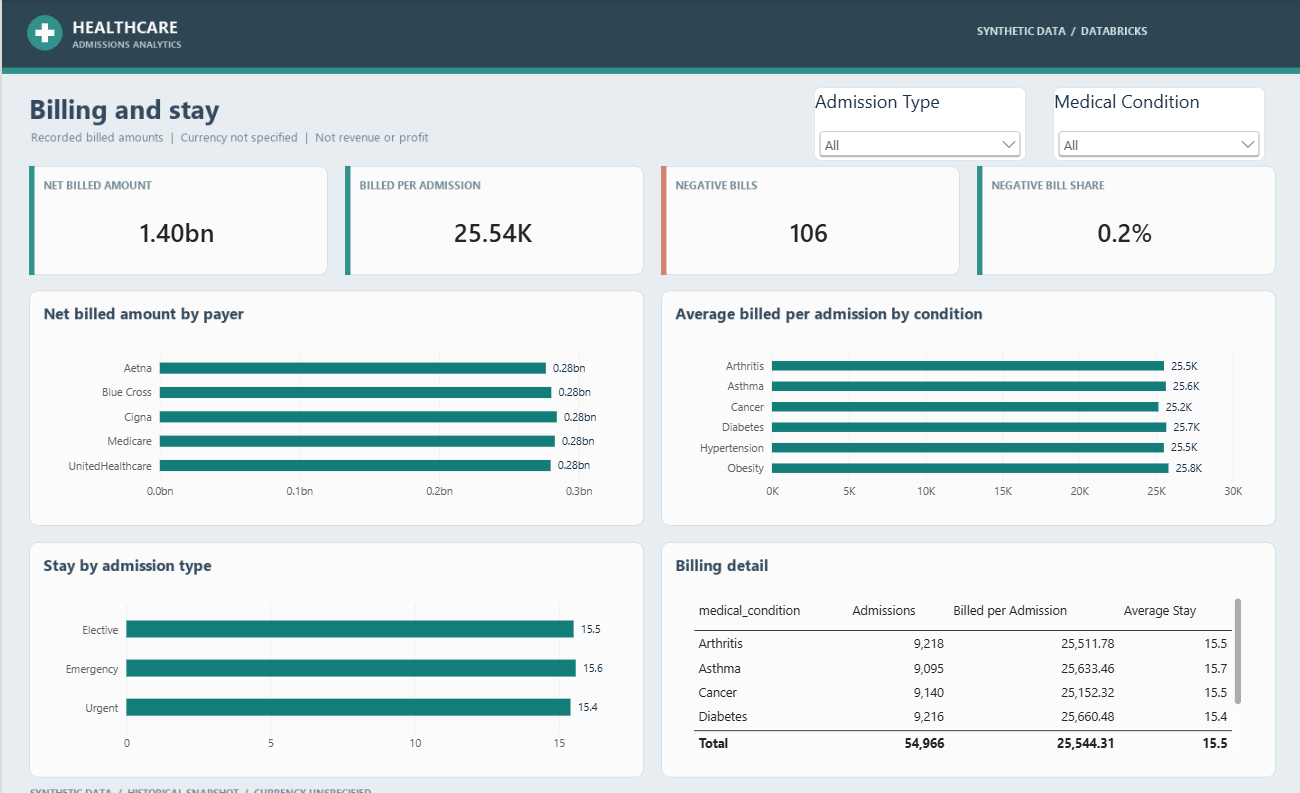
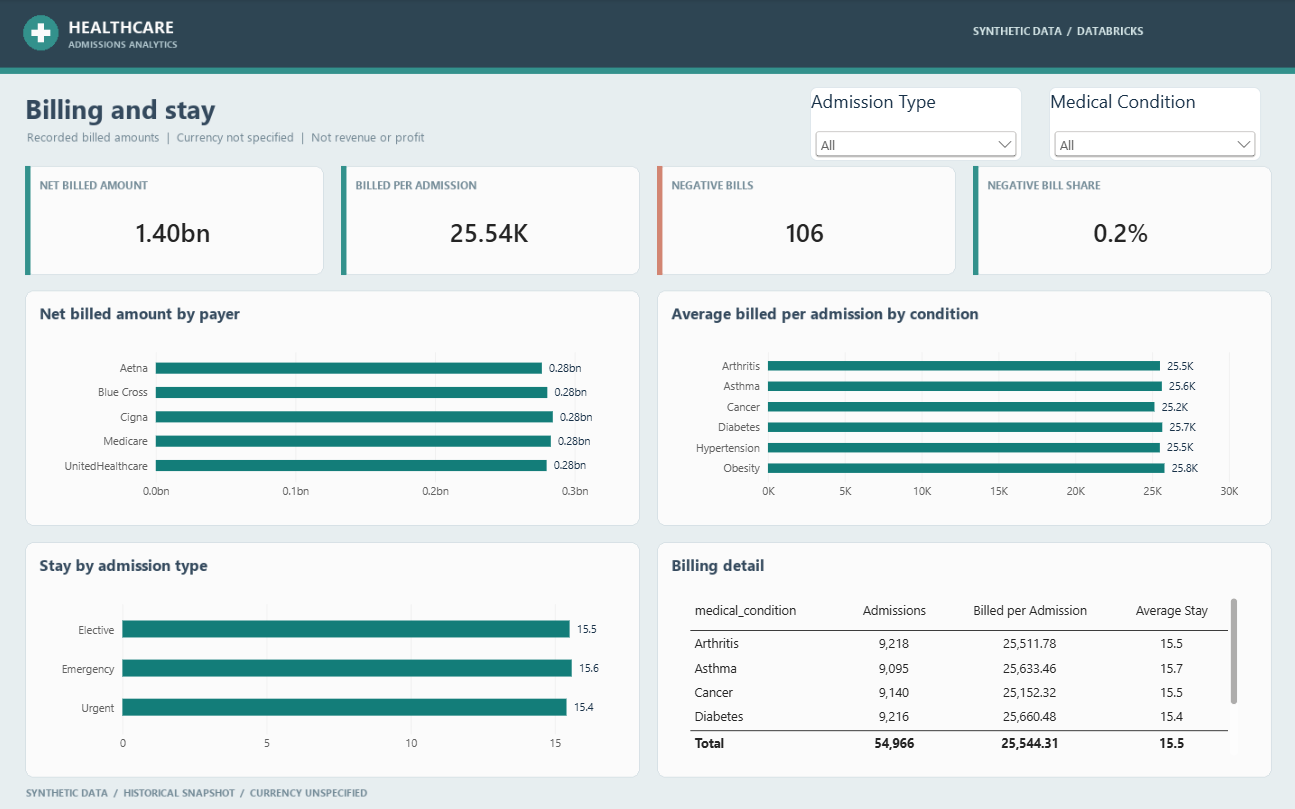
Updates to case studies

diff --git a/case-studies/healthcare-analytics.html b/case-studies/healthcare-analytics.html
@@ -2,10 +2,10 @@
 <html lang="en"><head><meta charset="utf-8"><meta name="viewport" content="width=device-width,initial-scale=1"><meta name="description" content="A synthetic healthcare analytics project using Databricks, PySpark, Delta tables, and Power BI."><title>Healthcare Analytics | John Bailey II</title><link rel="stylesheet" href="../assets/css/portfolio-preview.css"><link rel="stylesheet" href="../assets/css/pages.css"><link rel="stylesheet" href="../assets/css/interior-refresh.css"><link rel="stylesheet" href="../assets/css/case-study-shared.css?v=mobile-panels-1"><link rel="stylesheet" href="../assets/css/case-stack.css"></head>
 <body class="weather-page retail-case"><a class="skip" href="#main">Skip to content</a><header class="wrap site-header"><a class="identity" href="../index.html"><span class="monogram" aria-hidden="true">JB<span>II</span></span><span>JOHN BAILEY II</span></a><button class="menu-toggle" aria-expanded="false" aria-controls="main-nav" hidden>Menu</button><nav id="main-nav" aria-label="Main navigation"><a href="../index.html">Home</a><a href="../projects.html" aria-current="page">Projects</a><a href="../about.html">About</a><a href="../index.html#experience">Experience</a><a href="../index.html#contact">Contact</a></nav></header>
 <main id="main"><section class="interior-hero"><div class="wrap"><p class="breadcrumb"><a href="../projects.html">Projects</a> / Healthcare Analytics</p><p class="eyebrow">CLOUD DATA ENGINEERING / BUSINESS INTELLIGENCE</p><h1>Healthcare Analytics</h1><p class="lede">Turning synthetic admission and billing records into reconciled data and useful Power BI reporting.</p><span class="status">Databricks Free Edition / Synthetic historical data</span><div class="case-hero-actions"><a href="#report">Explore the analysis</a><a href="#engineering">See how it works</a></div><div class="case-hero-proof"><div><strong>55,500</strong><span>source rows assessed</span></div><div><strong>54,966</strong><span>curated admissions</span></div><div><strong>106</strong><span>negative bills retained for review</span></div></div><p class="case-hero-caption">Reconciled Databricks tables · Power BI connection and refresh verified</p><a class="retail-hero-visual" href="#engineering"><span class="retail-hero-visual-label">FROM SOURCE TO REPORT</span><img src="../images/projects/healthcare-analytics.svg" alt="Synthetic admissions flow through Databricks and PySpark into Power BI"><span class="retail-hero-visual-caption">Databricks · PySpark · Delta · Power BI</span></a></div></section>
-<div class="wrap"><dl class="case-meta"><div><dt>BUSINESS CONTEXT</dt><dd>Admissions and billing</dd></div><div><dt>DATA SOURCE</dt><dd>Synthetic healthcare records</dd></div><div><dt>CORE STACK</dt><dd>Databricks / PySpark / Delta</dd></div><div><dt>REPORTING</dt><dd>Power BI Desktop</dd></div></dl><section class="case-tech-stack" aria-label="Technologies used"><span class="case-tech-stack-heading">TOOLS IN THIS PROJECT</span><ul><li><img src="../images/projects/databricks-logo.svg" alt="" width="25" height="25"><span>Databricks</span></li><li><img src="../images/projects/apachespark.svg" alt="" width="25" height="25"><span>PySpark</span></li><li><img src="../images/projects/power-bi-logo.svg" alt="" width="25" height="25"><span>Power BI</span></li></ul></section><div class="case-layout"><nav class="case-nav" aria-label="Case study sections"><a href="#question">The question</a><a href="#report">Analysis</a><a href="#engineering">Engineering</a><a href="#quality">Data quality</a><a href="#scope">Scope and source</a></nav><div class="case-body">
+<div class="wrap"><dl class="case-meta"><div><dt>BUSINESS CONTEXT</dt><dd>Admissions and billing</dd></div><div><dt>DATA SOURCE</dt><dd>Synthetic healthcare records</dd></div><div><dt>CORE STACK</dt><dd>Databricks / PySpark / Delta</dd></div><div><dt>REPORTING</dt><dd>Power BI Desktop</dd></div></dl><section class="case-tech-stack" aria-label="Technologies used"><span class="case-tech-stack-heading">TOOLS IN THIS PROJECT</span><ul><li><img src="../images/projects/databricks-logo.svg" alt="" width="25" height="25"><span>Databricks</span></li><li><img src="../images/projects/apachespark.svg" alt="" width="25" height="25"><span>PySpark</span></li><li><img src="../images/projects/power-bi-logo.svg" alt="" width="25" height="25"><span>Power BI</span></li></ul></section><div class="case-layout"><nav class="case-nav" aria-label="Case study sections"><a href="#question">The question</a><a href="#engineering">Engineering</a><a href="#quality">Data quality</a><a href="#report">Analysis</a><a href="#scope">Scope and source</a></nav><div class="case-body">
 <section id="question"><p class="eyebrow">THE QUESTION</p><h2>How can admission and billing records be made useful for reporting?</h2><p>This project explores admission volume, length of stay, and billed amounts across recorded categories. It pairs a cloud-based PySpark workflow with a Power BI report, using synthetic data to demonstrate the process.</p></section>
-<section id="report"><p class="eyebrow">BUSINESS INTELLIGENCE</p><h2>See the story with the context intact.</h2><div class="decision-cards"><article><h3>Admissions</h3><p>Compare volume and elapsed stay across admission types and medical conditions.</p></article><article><h3>Billing and stay</h3><p>Explore recorded billed amounts and average amounts per admission across categories.</p></article><article><h3>Data quality</h3><p>Review source reconciliation, excluded duplicate copies, and negative bills retained for follow-up.</p></article></div><p>The Power BI Desktop connection to the Databricks SQL warehouse was tested, and a refresh succeeded. The report is a local working report; it is not presented as a public interactive dashboard.</p><p><a href="../assets/downloads/healthcare-analytics-report.pbix" download>Download the interactive Power BI report (.pbix)</a> · Opens in Power BI Desktop. Contains a fixed synthetic snapshot reconstructed from the local source; it is not connected to Databricks.</p><div class="retail-report-gallery"><figure><a href="../images/projects/healthcare-admissions-report.png"><img src="../images/projects/healthcare-admissions-report.png" alt="Power BI admissions overview with admission counts, length of stay, monthly trend, and category comparisons" loading="lazy"></a><figcaption>Admissions overview: compare synthetic admission volume, length of stay, and recorded categories. The first and last months are partial.</figcaption></figure><figure><a href="../images/projects/healthcare-billing-report.png"><img src="../images/projects/healthcare-billing-report.png" alt="Power BI billing and stay report with billed amounts, payer and condition comparisons, and negative bill flags" loading="lazy"></a><figcaption>Billing and stay: explore recorded billed amounts and review negative bill flags. Currency is unspecified.</figcaption></figure></div></section>
 <section id="engineering"><p class="eyebrow">ENGINEERING</p><h2>From file to cloud tables to Power BI.</h2><figure class="case-cover"><img src="../images/projects/healthcare-analytics.svg" alt="Synthetic source file, Databricks curation, and Power BI reporting" loading="lazy"><figcaption>Illustrated project workflow; not a screenshot of the report.</figcaption></figure><p>A synthetic CSV is uploaded to a Unity Catalog volume. A PySpark assessment checks schema and source quality; a separate notebook prepares a curated admission table and a full-snapshot quality summary in managed Delta tables. Power BI imports the tables through the Databricks connector.</p><details class="case-detail"><summary>Explore implementation details</summary><p><a href="../projects/healthcare-analytics/README.md">Project documentation</a> · <a href="../projects/healthcare-analytics/databricks/README.md">Databricks workflow and validation</a></p><p>The report uses a denormalized admissions table and a separate quality summary. It is not presented as a connected star schema.</p></details></section>
-<section id="quality"><p class="eyebrow">DATA QUALITY</p><h2>Reconcile before interpreting.</h2><div class="weather-summary"><div><strong>55,500</strong><span>source rows</span></div><div><strong>534</strong><span>duplicate copies excluded</span></div><div><strong>54,966</strong><span>curated admissions</span></div></div><p>Distinct rows that fail required-field or date rules are excluded; none failed those checks in this snapshot. Negative billing amounts are retained and flagged: 106 remain in the curated table. Treating identical source rows as duplicate copies is a project assumption, not proof of duplicate real-world encounters.</p><details class="case-detail"><summary>View Databricks reconciliation evidence</summary><p>The notebook checks source reconciliation, distinct encounter identifiers, and nonnegative stay lengths before writing the curated tables. This screenshot shows the successful pre-write checks and counts for the synthetic snapshot.</p><figure class="retail-report-gallery"><a href="../images/projects/healthcare-databricks-reconciliation.png"><img src="../images/projects/healthcare-databricks-reconciliation.png" alt="Databricks notebook reconciliation checks and output showing 55,500 source rows and 54,966 curated admissions" loading="lazy"></a><figcaption>Databricks notebook output: source counts and pre-write validation checks.</figcaption></figure></details></section>
+<section id="quality"><p class="eyebrow">DATA QUALITY</p><h2>Reconcile before interpreting.</h2><div class="weather-summary"><div><strong>55,500</strong><span>source rows</span></div><div><strong>534</strong><span>duplicate copies excluded</span></div><div><strong>54,966</strong><span>curated admissions</span></div></div><p>Distinct rows that fail required-field or date rules are excluded; none failed those checks in this snapshot. Negative billing amounts are retained and flagged: 106 remain in the curated table. Treating identical source rows as duplicate copies is a project assumption, not proof of duplicate real-world encounters.</p><details class="case-detail"><summary>View Databricks reconciliation evidence</summary><p>The notebook checks source reconciliation, distinct encounter identifiers, and nonnegative stay lengths before writing the curated tables. This screenshot shows the successful pre-write checks and counts for the synthetic snapshot.</p><figure class="retail-report-gallery"><a href="../images/projects/healthcare-databricks-reconciliation.png"><img src="../images/projects/healthcare-databricks-reconciliation.png" alt="Databricks notebook reconciliation checks and output showing 55,500 source rows and 54,966 curated admissions" loading="lazy"></a><figcaption>Databricks notebook output: source counts and pre-write validation checks.</figcaption></figure><p><a href="https://github.com/jbaileyanalytics/jbaileyanalytics.github.io/blob/main/projects/healthcare-analytics/databricks/02_curate_admissions.py" target="_blank" rel="noopener noreferrer">View the Databricks curation and validation notebook (opens in a new tab)</a></p></details></section>
+<section id="report"><p class="eyebrow">BUSINESS INTELLIGENCE</p><h2>See the story with the context intact.</h2><div class="decision-cards"><article><h3>Admissions</h3><p>Compare volume and elapsed stay across admission types and medical conditions.</p></article><article><h3>Billing and stay</h3><p>Explore recorded billed amounts and average amounts per admission across categories.</p></article><article><h3>Data quality</h3><p>Review source reconciliation, excluded duplicate copies, and negative bills retained for follow-up.</p></article></div><p>The Power BI Desktop connection to the Databricks SQL warehouse was tested, and a refresh succeeded. The report is a local working report; it is not presented as a public interactive dashboard.</p><p><a href="../assets/downloads/healthcare-analytics-report.pbix" download>Download the interactive Power BI report (.pbix)</a> · Opens in Power BI Desktop. Contains a fixed synthetic snapshot reconstructed from the local source; it is not connected to Databricks.</p><div class="retail-report-gallery"><figure><a href="../images/projects/healthcare-admissions-report.png"><img src="../images/projects/healthcare-admissions-report.png" alt="Power BI admissions overview with admission counts, length of stay, monthly trend, and category comparisons" loading="lazy"></a><figcaption>Admissions overview: compare synthetic admission volume, length of stay, and recorded categories. The first and last months are partial.</figcaption></figure><figure><a href="../images/projects/healthcare-billing-report.png"><img src="../images/projects/healthcare-billing-report.png" alt="Power BI billing and stay report with billed amounts, payer and condition comparisons, and negative bill flags" loading="lazy"></a><figcaption>Billing and stay: explore recorded billed amounts and review negative bill flags. Currency is unspecified.</figcaption></figure></div></section>
 <section id="scope"><p class="eyebrow">SCOPE AND SOURCE</p><h2>Know what the data can support.</h2><p>The dataset is entirely synthetic. It does not establish reliable patient identities, readmissions, patient churn, real clinical outcomes, or billing currency. Billed amounts are not collections, revenue, profit, or treatment costs. The source covers May 2019 through May 2024, including partial boundary months.</p><p>Source: <a href="https://www.kaggle.com/datasets/prasad22/healthcare-dataset">Healthcare Dataset by prasad22 on Kaggle</a>. Source files are not published with this case study. Illustrations are explanatory, and figures describe only the inspected snapshot.</p></section>
 </div></div><div class="next-project"><a href="../projects.html">Back to all projects</a></div></div></main><section class="site-contact"><div class="wrap"><div><p class="eyebrow">CONTACT</p><h2>Let’s connect.</h2><p>I’m interested in opportunities across data engineering, cloud infrastructure, and analytics.</p></div><a class="button" href="mailto:jbaileyanalytics@gmail.com">Email</a></div></section><footer class="wrap site-footer"><span>© 2026 John Bailey II</span><div><a href="https://github.com/jbaileyanalytics">GitHub</a><a href="https://www.linkedin.com/in/john-bailey-ii-8b7713126/">LinkedIn</a></div></footer><script>const toggle=document.querySelector('.menu-toggle'),nav=document.querySelector('#main-nav');toggle.hidden=false;toggle.addEventListener('click',()=>{const open=toggle.getAttribute('aria-expanded')!=='true';toggle.setAttribute('aria-expanded',String(open));nav.classList.toggle('is-open',open)});nav.addEventListener('click',e=>{if(e.target.closest('a')){toggle.setAttribute('aria-expanded','false');nav.classList.remove('is-open')}});</script></body></html>
